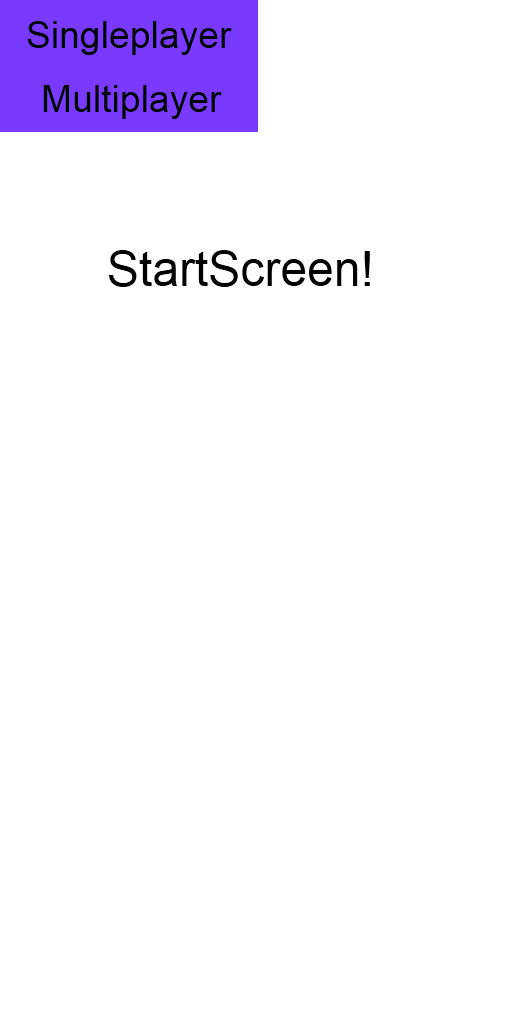
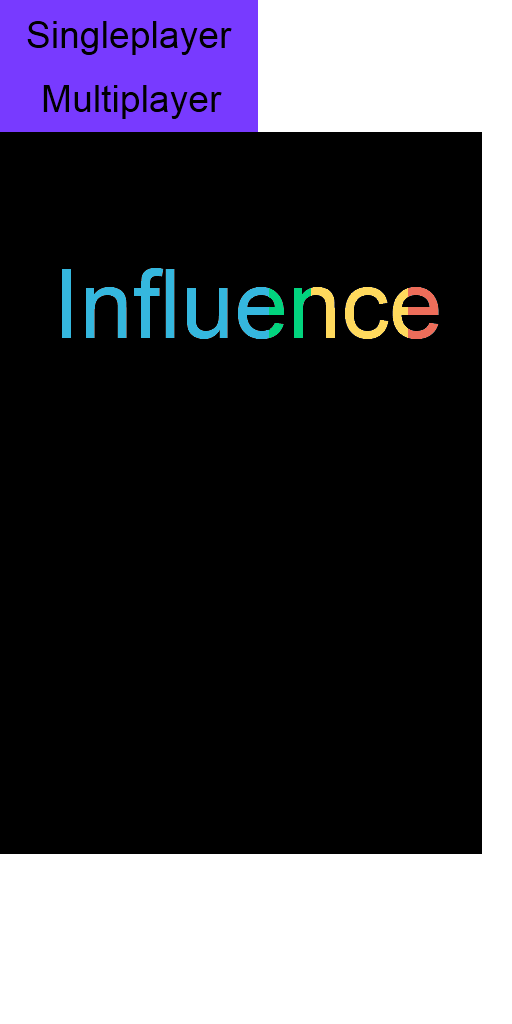
returned start screen background to be a texture

diff --git a/influence/src/com/teremok/influence/screen/StartScreen.java b/influence/src/com/teremok/influence/screen/StartScreen.java
@@ -1,16 +1,23 @@
 package com.teremok.influence.screen;
 
 import com.badlogic.gdx.Game;
+import com.badlogic.gdx.Gdx;
 import com.badlogic.gdx.Input;
 import com.badlogic.gdx.graphics.Color;
+import com.badlogic.gdx.graphics.Texture;
+import com.badlogic.gdx.graphics.g2d.TextureAtlas;
+import com.badlogic.gdx.graphics.g2d.TextureRegion;
 import com.badlogic.gdx.scenes.scene2d.Action;
 import com.badlogic.gdx.scenes.scene2d.InputEvent;
 import com.badlogic.gdx.scenes.scene2d.InputListener;
 import com.badlogic.gdx.scenes.scene2d.Touchable;
 import com.badlogic.gdx.scenes.scene2d.actions.Actions;
 import com.badlogic.gdx.scenes.scene2d.actions.SequenceAction;
+import com.badlogic.gdx.scenes.scene2d.ui.Image;
+import com.badlogic.gdx.scenes.scene2d.utils.Align;
+import com.badlogic.gdx.scenes.scene2d.utils.TextureRegionDrawable;
+import com.badlogic.gdx.utils.Scaling;
 import com.teremok.influence.model.GameType;
-import com.teremok.influence.model.Localizator;
 import com.teremok.influence.ui.Button;
 import com.teremok.influence.ui.ButtonColored;
 import com.teremok.influence.ui.ColoredPanel;
@@ -26,7 +33,7 @@ public class StartScreen extends AbstractScreen {
     private static final String SINGLEPLAYER = "singleplayer";
     private static final String MULTIPLAYER = "multiplayer";
 
-    private ColoredPanel background;
+    private Image background;
     private ColoredPanel overlap;
 
     public StartScreen(Game game) {
@@ -37,7 +44,15 @@ public class StartScreen extends AbstractScreen {
     public void resize(int width, int height) {
         super.resize(width, height);
 
-        background = new ColoredPanel(Drawer.getBackgroundColor(), 0,0, WIDTH, HEIGHT);
+        TextureAtlas atlas = new TextureAtlas(Gdx.files.internal("startScreen.pack"));
+        for (Texture tex : atlas.getTextures()) {
+            tex.setFilter(Texture.TextureFilter.Linear, Texture.TextureFilter.Linear);
+        }
+        TextureRegion textureRegion = atlas.findRegion("background");
+        background = new Image(new TextureRegionDrawable(textureRegion));
+        background.setScaling(Scaling.fit);
+        background.setAlign(Align.center);
+        background.setTouchable(Touchable.disabled);
 
         float centerX = getCenterX(256f);
         ButtonColored singleplayer = new ButtonColored(
@@ -45,14 +60,14 @@ public class StartScreen extends AbstractScreen {
                 getFont(),
                 Drawer.getTextColor(),
                 Drawer.getCellColorByType(0),
-                centerX, 360f, 256f, 64f);
+                centerX, 296f, 256f, 64f);
 
         ButtonColored multiplayer = new ButtonColored(
                 MULTIPLAYER,
                 getFont(),
                 Drawer.getTextColor(),
                 Drawer.getCellColorByType(1),
-                centerX, 256f, 256f,  64f);
+                centerX, 192f, 256f,  64f);
 
         overlap = new ColoredPanel(Color.BLACK, 0, 0, WIDTH, HEIGHT);
         overlap.setTouchable(Touchable.disabled);

diff --git a/influence/src/com/teremok/influence/model/Score.java b/influence/src/com/teremok/influence/model/Score.java
@@ -80,7 +80,7 @@ public class Score extends Group {
             status = Localizator.getString("youLost");
         }
 
-        if (match.getPm().isHumanActing()){
+        if (match.getPm().isHumanActing() && ! match.isEnded()){
             if (match.isInAttackPhase()) {
                 subStatus = Localizator.getString("orTouchToEndAttack");
             } else {
